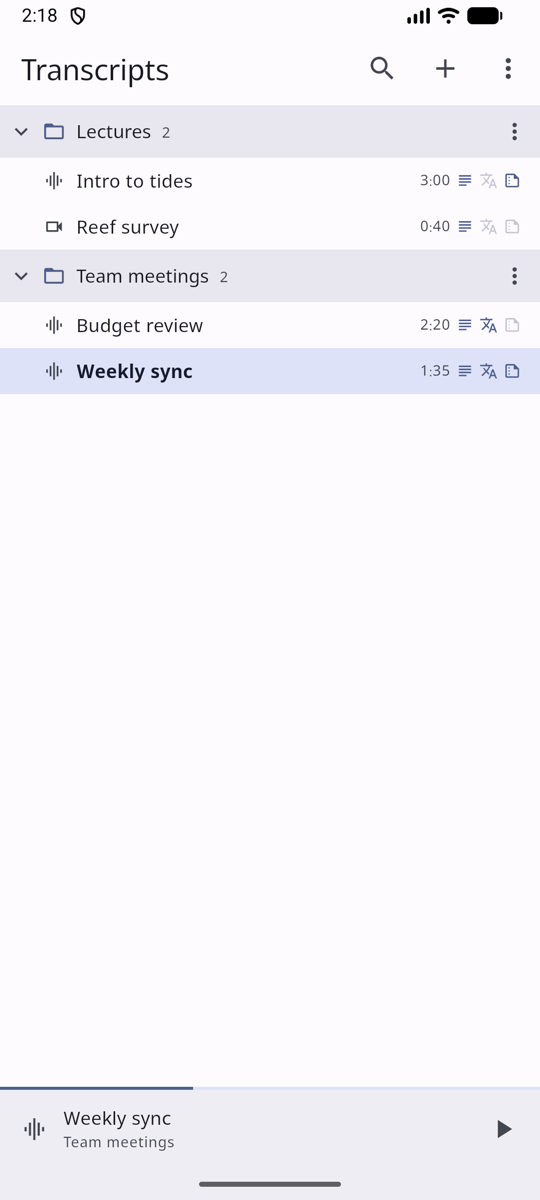
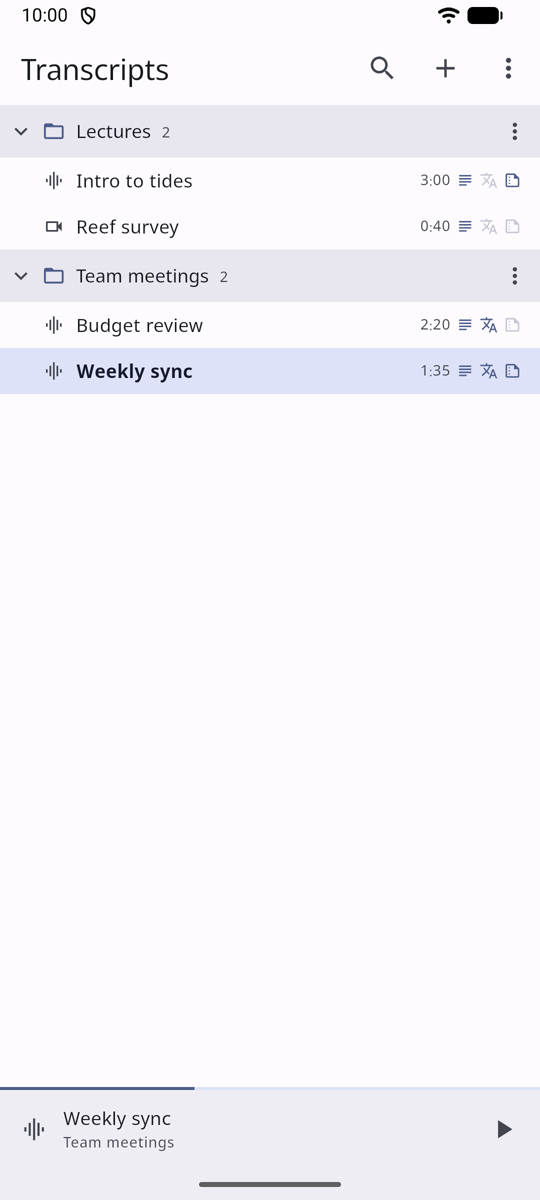
Update docs

diff --git a/CLAUDE.md b/CLAUDE.md
@@ -53,9 +53,10 @@ State is plain `ChangeNotifier` objects.
 - `Playback` (`playback.dart`) is the player interface. `MediaSessionPlayback` (`media_session.dart`) plays audio files with `JustAudioPlayback` and videos, picture and sound together, with `VideoPlayback` (`video_playback.dart`), and shows them in the system media session through `PlaybackHandler` (`audio_service`).
 - `playbackSource` (`playback_source.dart`) checks a recording's codecs with ffprobe. A file Android cannot play gets a converted copy in its sidecar folder, made once and left out of backups and zips.
 - `Settings` wraps `SharedPreferences` and the Keystore-backed secrets.
-- `Library` (`library.dart`) is the on-disk layout. Sidecar paths go through `sidecarDir()` and `sidecarFile()`. Do not build them by hand.
+- `Library` (`library.dart`) is the on-disk layout. Sidecar paths go through `sidecarDir()` and `sidecarFile()`, and per-language files through `translationFile()`, `translationFuriganaFile()` and `summaryFile()`. Do not build them by hand.
 - `LanguageList` (`languages.dart`) is the user's language list, stored in `<library>/.languages.json`. Direction, font size and prompt notes come from it. Do not hardcode language checks elsewhere.
 - Jobs extend `Job` (`job.dart`): a status line, streamed output, cancel.
+- Pickers and action lists are bottom sheets built from `showSheet`, `SheetBody` and `SheetOption` (`sheet.dart`). Overflow menus use `MenuButton` (`menu.dart`).
 - Pure logic stays out of widgets so it can be tested with temp directories and fakes.
 - `MainActivity.kt` extends `AudioServiceActivity` and hosts the share, save-as, job service and PiP channels.
 
@@ -66,8 +67,9 @@ audios/
   <folder>/
     <name>.mp3
     .<name>/
-      transcript.srt  transcript.txt  lang
-      translation.srt  furigana.srt  summary.md
+      transcript.srt  transcript.txt  lang  furigana.srt
+      translation.srt  translation.<code>.srt  furigana.<code>.srt
+      summary.md  summary.<code>.md
       speakers.json  speaker-overrides.json
       audio.mp3  notes.json  notes/<id>.jpg  context.txt
       playback.mkv or playback.m4a
@@ -76,7 +78,9 @@ audios/
   .trash/
 ```
 
-Folders are one level deep. `lang` absent means `dv`. `furigana.srt` is the transcript with readings in Aozora ruby notation (`｜漢字《かんじ》`), written only for Japanese transcripts that have readings. `transcript.srt` stays plain. `context.txt` is the user's note about the recording, sent with the transcription, translation and summary prompts along with the file name.
+Folders are one level deep. `lang` absent means `dv`. `furigana.srt` is the transcript with readings in Aozora ruby notation (`｜漢字《かんじ》`), written only for Japanese transcripts that have readings. `transcript.srt` stays plain.
+
+Translations and summaries are per language. English stays in `translation.srt` and `summary.md`, and other languages go in `translation.<code>.srt` and `summary.<code>.md`. A Japanese translation keeps its readings in `furigana.ja.srt`. `context.txt` is the user's note about the recording, sent with the transcription, translation and summary prompts along with the file name.
 
 ## Guards to keep
 

diff --git a/README.md b/README.md
@@ -4,15 +4,18 @@ An Android app that transcribes recordings with Gemini, then translates and summ
 
 <p>
   <img src="docs/screenshots/library.png" width="200" alt="Library with folders, recordings and the mini player">
-  <img src="docs/screenshots/transcript.png" width="200" alt="Right-to-left transcript with speakers and a note">
-  <img src="docs/screenshots/translation.png" width="200" alt="English translation of the same recording">
+  <img src="docs/screenshots/transcript-dv.png" width="200" alt="Dhivehi transcript, right to left, with speakers and a note">
+  <img src="docs/screenshots/translation-en.png" width="200" alt="English translation of the same recording">
+  <img src="docs/screenshots/translation-jp.png" width="200" alt="Japanese translation of the same recording, with furigana">
   <img src="docs/screenshots/summary.png" width="200" alt="Summary of the recording">
 </p>
 
 ## Features
 
 - Transcripts with speaker labels, synced to playback
-- Translation to English and summaries, per recording and per folder
+- Translations and summaries in any language on your list, and summaries of whole folders
+- Furigana above Japanese text
+- A context note per recording, sent to the model with its file name
 - An editable language list with script, direction, text size and notes for the model
 - Audio and video, with fullscreen, subtitles and picture-in-picture
 - Notes with photos at points in a recording
@@ -73,13 +76,13 @@ Phones take `build/app/outputs/flutter-apk/app-arm64-v8a-release.apk`. Install i
 
 ## Setup
 
-In Settings, add a Gemini API key and model. For translation and summaries with Claude, also add an Anthropic API key and model.
+In Settings, under AI models, add a Gemini API key. To translate and summarize with Claude, also add an Anthropic API key and model, then choose Claude.
 
 ## Data
 
-Recordings are uploaded to Google's Gemini API for transcription, and the app deletes the upload when the job ends. Transcripts, translations and note photos go to Gemini or Claude for translation and summaries. Looking up a language sends its name to Gemini.
+Recordings are uploaded to Google's Gemini API for transcription, and the app deletes the upload when the job ends. Each recording's file name and context note go with it. Transcripts, translations and note photos go to Gemini or Claude for translation and summaries. Looking up a language sends its name to Gemini.
 
-The library lives in the app's private storage and is deleted on uninstall. Create backup in Settings saves it as one zip. Restore from backup merges a zip into the library or replaces the library with it.
+The library lives in the app's private storage and is deleted on uninstall. Backup and restore in Settings saves it as one zip, and merges a zip into the library or replaces the library with it.
 
 ## Development
 
